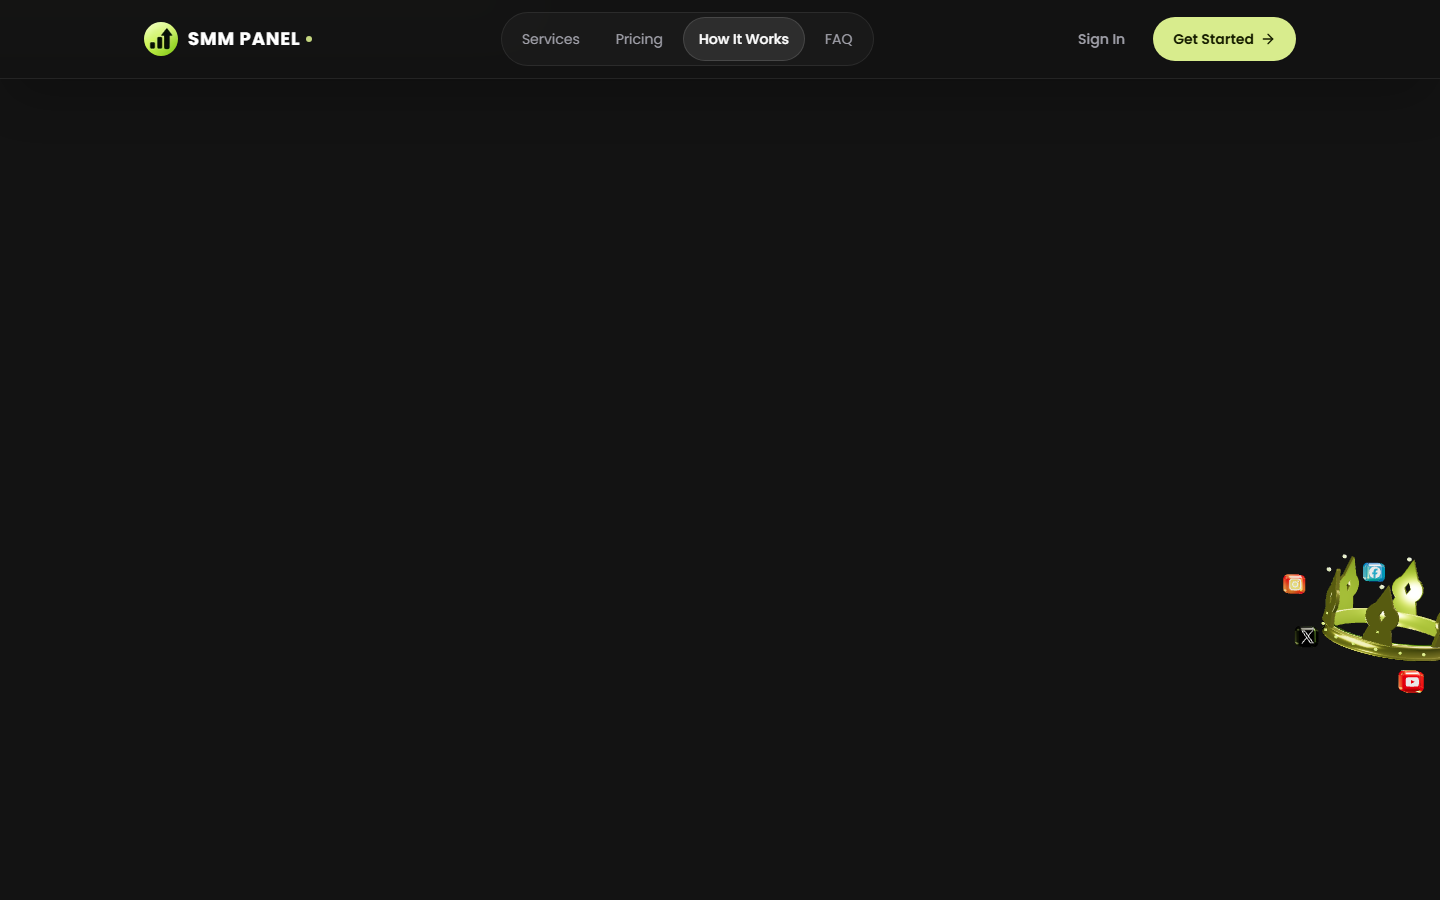
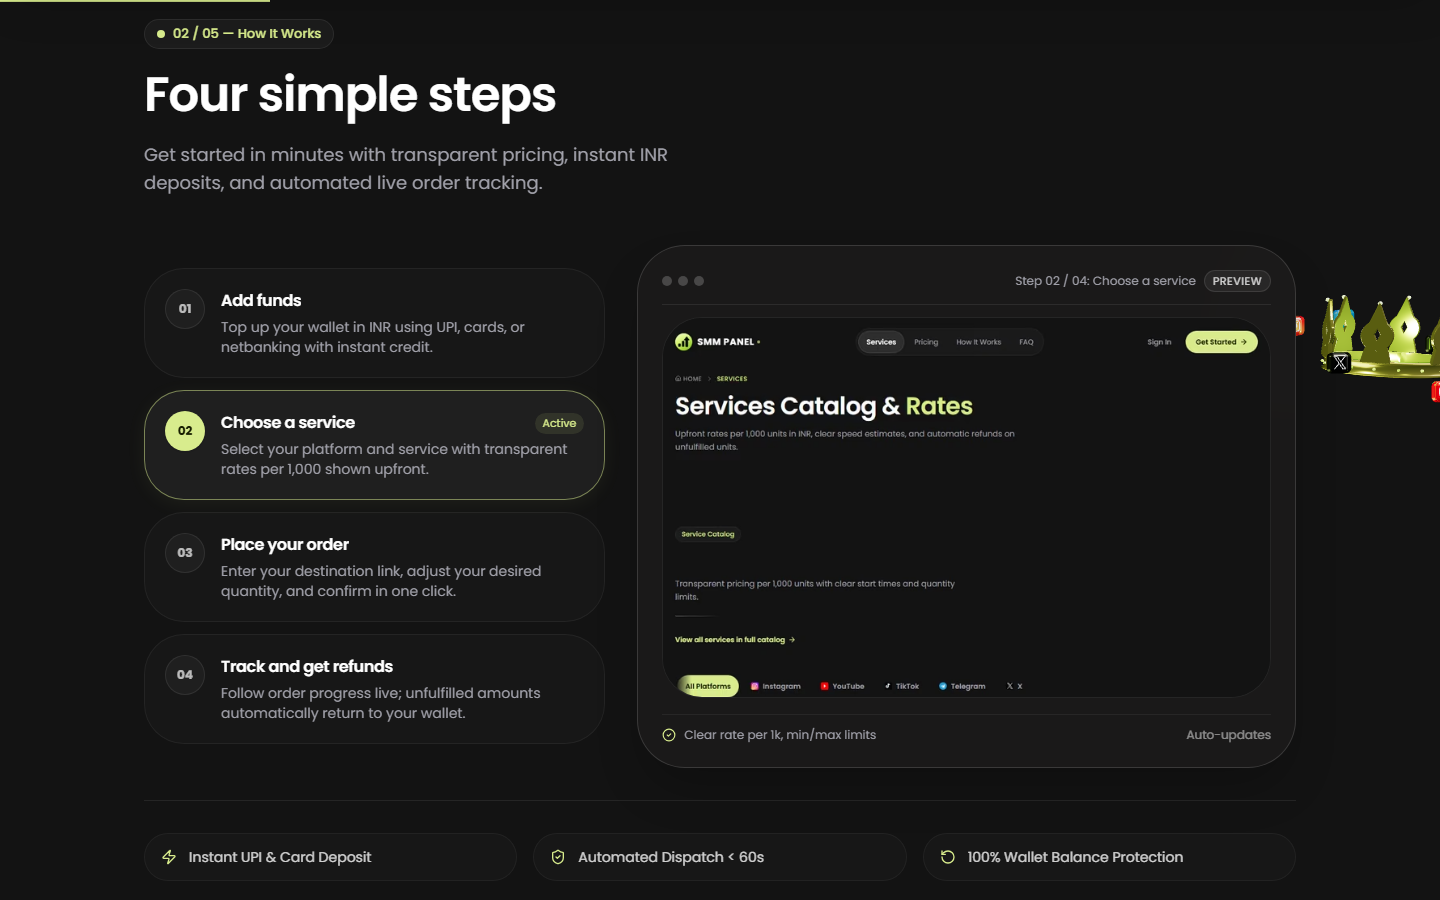
fix(landing): resolve empty gap in How It Works section with responsive 4-step interactive showcase

diff --git a/apps/web/components/landing/WorkWalkthroughSection.tsx b/apps/web/components/landing/WorkWalkthroughSection.tsx
@@ -1,9 +1,10 @@
 "use client";
 
-import React, { useRef, useState, useEffect } from "react";
+import React, { useState, useEffect } from "react";
 import Image from "next/image";
-import { motion, useScroll, useSpring, useTransform, AnimatePresence } from "framer-motion";
+import { motion, AnimatePresence } from "framer-motion";
 import { CrownSlot } from "@/components/three/CrownSlot";
+import { Wallet, Layers, Send, RotateCcw, CheckCircle2, ShieldCheck, Zap } from "lucide-react";
 
 const STEPS = [
   {
@@ -13,6 +14,8 @@ const STEPS = [
     sentence: "Top up your wallet in INR using UPI, cards, or netbanking with instant credit.",
     previewSrc: "/previews/preview-add-funds.png",
     alt: "Add funds preview",
+    icon: Wallet,
+    detail: "Min. deposit ₹100 via UPI & cards",
   },
   {
     num: "02",
@@ -21,6 +24,8 @@ const STEPS = [
     sentence: "Select your platform and service with transparent rates per 1,000 shown upfront.",
     previewSrc: "/previews/preview-choose-service.png",
     alt: "Choose service preview",
+    icon: Layers,
+    detail: "Clear rate per 1k, min/max limits",
   },
   {
     num: "03",
@@ -29,6 +34,8 @@ const STEPS = [
     sentence: "Enter your destination link, adjust your desired quantity, and confirm in one click.",
     previewSrc: "/previews/preview-place-order.png",
     alt: "Place order preview",
+    icon: Send,
+    detail: "Instant validation & order queuing",
   },
   {
     num: "04",
@@ -37,158 +44,181 @@ const STEPS = [
     sentence: "Follow order progress live; unfulfilled amounts automatically return to your wallet.",
     previewSrc: "/previews/preview-track-order.png",
     alt: "Track order preview",
+    icon: RotateCcw,
+    detail: "Live progress & automated refunds",
   },
 ];
 
 export function WorkWalkthroughSection() {
-  const containerRef = useRef<HTMLDivElement>(null);
   const [activeStep, setActiveStep] = useState(0);
+  const [isPaused, setIsPaused] = useState(false);
 
-  const { scrollYProgress } = useScroll({
-    target: containerRef,
-    offset: ["start start", "end end"],
-  });
-
-  const smoothProgress = useSpring(scrollYProgress, {
-    stiffness: 240,
-    damping: 30,
-    restDelta: 0.001,
-  });
-
+  // Auto-advance step every 5s unless hovered/interacted
   useEffect(() => {
-    return smoothProgress.on("change", (latest) => {
-      const idx = Math.min(3, Math.max(0, Math.floor(latest * 4)));
-      setActiveStep(idx);
-    });
-  }, [smoothProgress]);
+    if (isPaused) return;
+    const interval = setInterval(() => {
+      setActiveStep((prev) => (prev + 1) % STEPS.length);
+    }, 5000);
+    return () => clearInterval(interval);
+  }, [isPaused]);
 
-  const step = STEPS[activeStep];
+  const current = STEPS[activeStep];
 
   return (
     <section
-      ref={containerRef}
       id="work"
-      className="relative w-full h-[280vh] bg-transparent"
+      className="w-full py-16 sm:py-24 lg:py-28 bg-transparent relative"
+      onMouseEnter={() => setIsPaused(true)}
+      onMouseLeave={() => setIsPaused(false)}
     >
-      {/* Pinned Sticky Stage */}
-      <div className="sticky top-0 h-screen w-full flex flex-col justify-center items-center overflow-hidden px-4 sm:px-6">
-        <div className="max-w-[1200px] w-full mx-auto grid grid-cols-1 lg:grid-cols-12 gap-8 lg:gap-12 items-center">
+      <div className="max-w-[1200px] mx-auto px-4 sm:px-6">
+        {/* Section Header */}
+        <div className="flex flex-col md:flex-row md:items-end justify-between gap-6 mb-12">
+          <div className="max-w-xl text-left">
+            <div className="inline-flex items-center gap-2 px-3 py-1 rounded-full bg-white/[0.04] border border-white/[0.08] mb-4">
+              <span className="w-2 h-2 rounded-full bg-[#d8ec8d]" />
+              <span className="text-[13px] font-medium text-[#d8ec8d]">
+                02 / 05 — How It Works
+              </span>
+            </div>
+            <h2 className="text-[clamp(28px,3.8vw,48px)] font-semibold text-white tracking-[-0.02em] leading-tight mb-4">
+              Four simple steps
+            </h2>
+            <p className="text-base sm:text-lg text-[#A1A1AA] font-normal leading-relaxed">
+              Get started in minutes with transparent pricing, instant INR deposits, and automated live order tracking.
+            </p>
+          </div>
+
+          <div className="hidden lg:flex items-center justify-end">
+            <CrownSlot
+              id="steps"
+              className="w-28 h-28 pointer-events-none"
+            />
+          </div>
+        </div>
+
+        {/* Dual Column Layout: Left = Step selector cards, Right = Interactive live preview */}
+        <div className="grid grid-cols-1 lg:grid-cols-12 gap-8 items-center">
           
-          {/* Mobile view: Preview top, text below */}
-          {/* Desktop view: Left column = text + progress rail (7 cols), Right column = glass preview + crown stage (5 cols) */}
+          {/* Left Column (Step Selector Cards: 5 cols) */}
+          <div className="lg:col-span-5 flex flex-col gap-3">
+            {STEPS.map((s, idx) => {
+              const isSelected = activeStep === idx;
+              const Icon = s.icon;
 
-          {/* Left Column (Text & Step Info) */}
-          <div className="order-2 lg:order-1 lg:col-span-6 flex flex-col justify-center text-left">
-            {/* Eyebrow & Step Counter */}
-            <div className="flex items-center gap-3 mb-4">
-              <span className="text-xs uppercase tracking-widest text-[#d8ec8d] font-mono px-2.5 py-1 rounded-md bg-white/[0.04] border border-white/[0.08]">
-                How It Works
-              </span>
-              <span className="text-xs font-mono text-[#A1A1AA]">
-                {step.num} / {step.total}
-              </span>
-            </div>
-
-            {/* Step Title & Sentence with crisp crossfade transition */}
-            <div className="min-h-[140px] sm:min-h-[160px] flex flex-col justify-center">
-              <AnimatePresence mode="wait">
-                <motion.div
-                  key={step.num}
-                  initial={{ opacity: 0, y: 14 }}
-                  animate={{ opacity: 1, y: 0 }}
-                  exit={{ opacity: 0, y: -14 }}
-                  transition={{ duration: 0.35, ease: [0.22, 1, 0.36, 1] }}
-                >
-                  <h2 className="text-[clamp(28px,3.8vw,48px)] font-semibold text-white tracking-[-0.02em] leading-tight mb-4">
-                    {step.title}
-                  </h2>
-                  <p className="text-base sm:text-lg text-[#A1A1AA] font-normal leading-relaxed max-w-lg">
-                    {step.sentence}
-                  </p>
-                </motion.div>
-              </AnimatePresence>
-            </div>
-
-            {/* Progress Rail with 4 Dots */}
-            <div className="flex items-center gap-3 mt-8">
-              {STEPS.map((s, i) => (
+              return (
                 <button
                   key={s.num}
                   type="button"
-                  onClick={() => {
-                    if (containerRef.current) {
-                      const top = containerRef.current.offsetTop;
-                      const height = containerRef.current.offsetHeight;
-                      window.scrollTo({
-                        top: top + (i / 4) * height + 10,
-                        behavior: "smooth",
-                      });
-                    }
-                  }}
-                  className={`min-h-[44px] min-w-[44px] flex items-center justify-center p-2 group focus:outline-none`}
-                  aria-label={`Go to step ${s.num}`}
+                  onClick={() => setActiveStep(idx)}
+                  className={`w-full min-h-[48px] p-4 sm:p-5 rounded-2xl text-left border transition-all duration-300 flex items-start gap-4 focus:outline-none focus-visible:ring-2 focus-visible:ring-[#d8ec8d] ${
+                    isSelected
+                      ? "bg-white/[0.05] border-[#d8ec8d]/50 shadow-[0_4px_20px_rgba(216,236,141,0.06)]"
+                      : "bg-white/[0.02] border-white/[0.06] hover:bg-white/[0.03] hover:border-white/[0.12]"
+                  }`}
                 >
-                  <span
-                    className={`h-2 rounded-full transition-all duration-300 ${
-                      i === activeStep
-                        ? "w-8 bg-[#d8ec8d] shadow-[0_0_10px_rgba(216,236,141,0.5)]"
-                        : i < activeStep
-                        ? "w-2 bg-[#d8ec8d]/50"
-                        : "w-2 bg-white/20 group-hover:bg-white/40"
+                  {/* Step Number Badge */}
+                  <div
+                    className={`w-10 h-10 rounded-xl flex items-center justify-center font-mono text-xs font-bold shrink-0 transition-colors ${
+                      isSelected
+                        ? "bg-[#d8ec8d] text-[#171e00] shadow-sm"
+                        : "bg-white/[0.04] text-white/70 border border-white/[0.08]"
                     }`}
-                  />
+                  >
+                    {s.num}
+                  </div>
+
+                  <div className="flex-1 min-w-0">
+                    <div className="flex items-center justify-between gap-2 mb-1">
+                      <h3 className="text-base font-semibold text-white truncate">
+                        {s.title}
+                      </h3>
+                      {isSelected && (
+                        <span className="text-[11px] font-mono text-[#d8ec8d] px-2 py-0.5 rounded-full bg-[#d8ec8d]/10 shrink-0">
+                          Active
+                        </span>
+                      )}
+                    </div>
+                    <p className="text-xs sm:text-sm text-[#A1A1AA] font-normal leading-relaxed line-clamp-2">
+                      {s.sentence}
+                    </p>
+                  </div>
                 </button>
-              ))}
-            </div>
+              );
+            })}
           </div>
 
-          {/* Right Column (Glass Preview Panel + Crown Stage) */}
-          <div className="order-1 lg:order-2 lg:col-span-6 flex flex-col items-center justify-center relative">
-            {/* Glass Preview Panel */}
-            <div className="w-full max-w-[540px] rounded-2xl bg-[#1c1b1b]/80 border border-white/[0.12] backdrop-blur-2xl p-3 sm:p-4 shadow-2xl relative overflow-hidden">
-              {/* Window Header */}
+          {/* Right Column (Glass Preview Panel: 7 cols) */}
+          <div className="lg:col-span-7 flex flex-col items-center justify-center relative">
+            <div className="w-full rounded-3xl bg-[#1c1b1b]/90 border border-white/[0.14] backdrop-blur-2xl p-4 sm:p-6 shadow-2xl relative overflow-hidden">
+              {/* Header Bar */}
               <div className="flex items-center justify-between pb-3 mb-3 border-b border-white/[0.08]">
                 <div className="flex items-center gap-1.5">
                   <span className="w-2.5 h-2.5 rounded-full bg-white/20" />
                   <span className="w-2.5 h-2.5 rounded-full bg-white/20" />
                   <span className="w-2.5 h-2.5 rounded-full bg-white/20" />
                 </div>
-                <div className="text-[11px] font-mono tracking-wider uppercase px-2 py-0.5 rounded-full bg-white/[0.06] border border-white/[0.1] text-white/70">
-                  Preview
+                <div className="flex items-center gap-2">
+                  <span className="text-xs font-mono text-[#A1A1AA]">
+                    Step {current.num} / {current.total}: {current.title}
+                  </span>
+                  <div className="text-[11px] font-mono tracking-wider uppercase px-2 py-0.5 rounded-full bg-white/[0.06] border border-white/[0.1] text-white/80">
+                    Preview
+                  </div>
                 </div>
               </div>
 
-              {/* Screen Preview Image */}
-              <div className="relative aspect-[16/10] w-full rounded-xl overflow-hidden bg-[#131313] border border-white/[0.06]">
+              {/* Screen Preview Frame */}
+              <div className="relative aspect-[16/10] w-full rounded-2xl overflow-hidden bg-[#131313] border border-white/[0.08]">
                 <AnimatePresence mode="wait">
                   <motion.div
-                    key={step.num}
+                    key={current.num}
                     initial={{ opacity: 0, scale: 0.98 }}
                     animate={{ opacity: 1, scale: 1 }}
                     exit={{ opacity: 0, scale: 1.02 }}
-                    transition={{ duration: 0.35, ease: [0.22, 1, 0.36, 1] }}
+                    transition={{ duration: 0.3, ease: [0.22, 1, 0.36, 1] }}
                     className="absolute inset-0"
                   >
                     <Image
-                      src={step.previewSrc}
-                      alt={step.alt}
+                      src={current.previewSrc}
+                      alt={current.alt}
                       fill
                       className="object-cover object-top"
-                      sizes="(max-width: 768px) 100vw, 540px"
+                      sizes="(max-width: 768px) 100vw, 700px"
                     />
                   </motion.div>
                 </AnimatePresence>
               </div>
-            </div>
 
-            {/* Reserved 3D Crown Slot for Story stage */}
-            <CrownSlot
-              id="steps"
-              className="absolute -top-12 -right-8 lg:-right-12 w-28 h-28 pointer-events-none z-10"
-            />
+              {/* Bottom detail pill */}
+              <div className="mt-4 pt-3 border-t border-white/[0.06] flex items-center justify-between text-xs text-[#A1A1AA]">
+                <div className="flex items-center gap-2">
+                  <CheckCircle2 className="w-3.5 h-3.5 text-[#d8ec8d]" />
+                  <span>{current.detail}</span>
+                </div>
+                <span className="font-mono text-white/50">Auto-updates</span>
+              </div>
+            </div>
           </div>
 
         </div>
+
+        {/* Workflow Guarantee Chips */}
+        <div className="grid grid-cols-1 sm:grid-cols-3 gap-4 mt-8 pt-8 border-t border-white/[0.08]">
+          <div className="h-12 min-h-[44px] flex items-center gap-3 px-4 rounded-xl bg-white/[0.02] border border-white/[0.05]">
+            <Zap className="w-4 h-4 text-[#d8ec8d] shrink-0" />
+            <span className="text-xs sm:text-sm text-white/80">Instant UPI & Card Deposit</span>
+          </div>
+          <div className="h-12 min-h-[44px] flex items-center gap-3 px-4 rounded-xl bg-white/[0.02] border border-white/[0.05]">
+            <ShieldCheck className="w-4 h-4 text-[#d8ec8d] shrink-0" />
+            <span className="text-xs sm:text-sm text-white/80">Automated Dispatch &lt; 60s</span>
+          </div>
+          <div className="h-12 min-h-[44px] flex items-center gap-3 px-4 rounded-xl bg-white/[0.02] border border-white/[0.05]">
+            <RotateCcw className="w-4 h-4 text-[#d8ec8d] shrink-0" />
+            <span className="text-xs sm:text-sm text-white/80">100% Wallet Balance Protection</span>
+          </div>
+        </div>
+
       </div>
     </section>
   );
